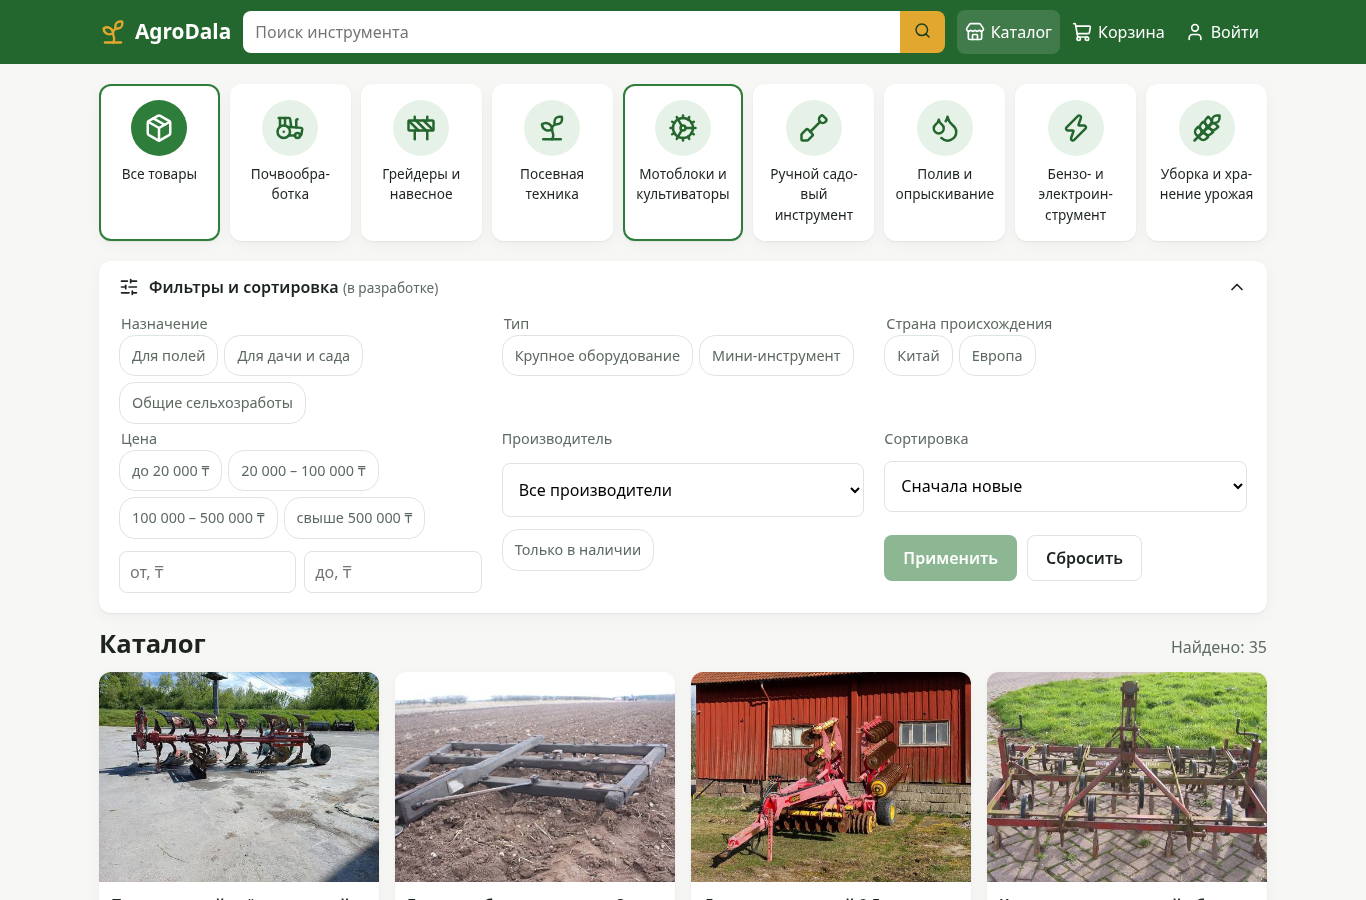
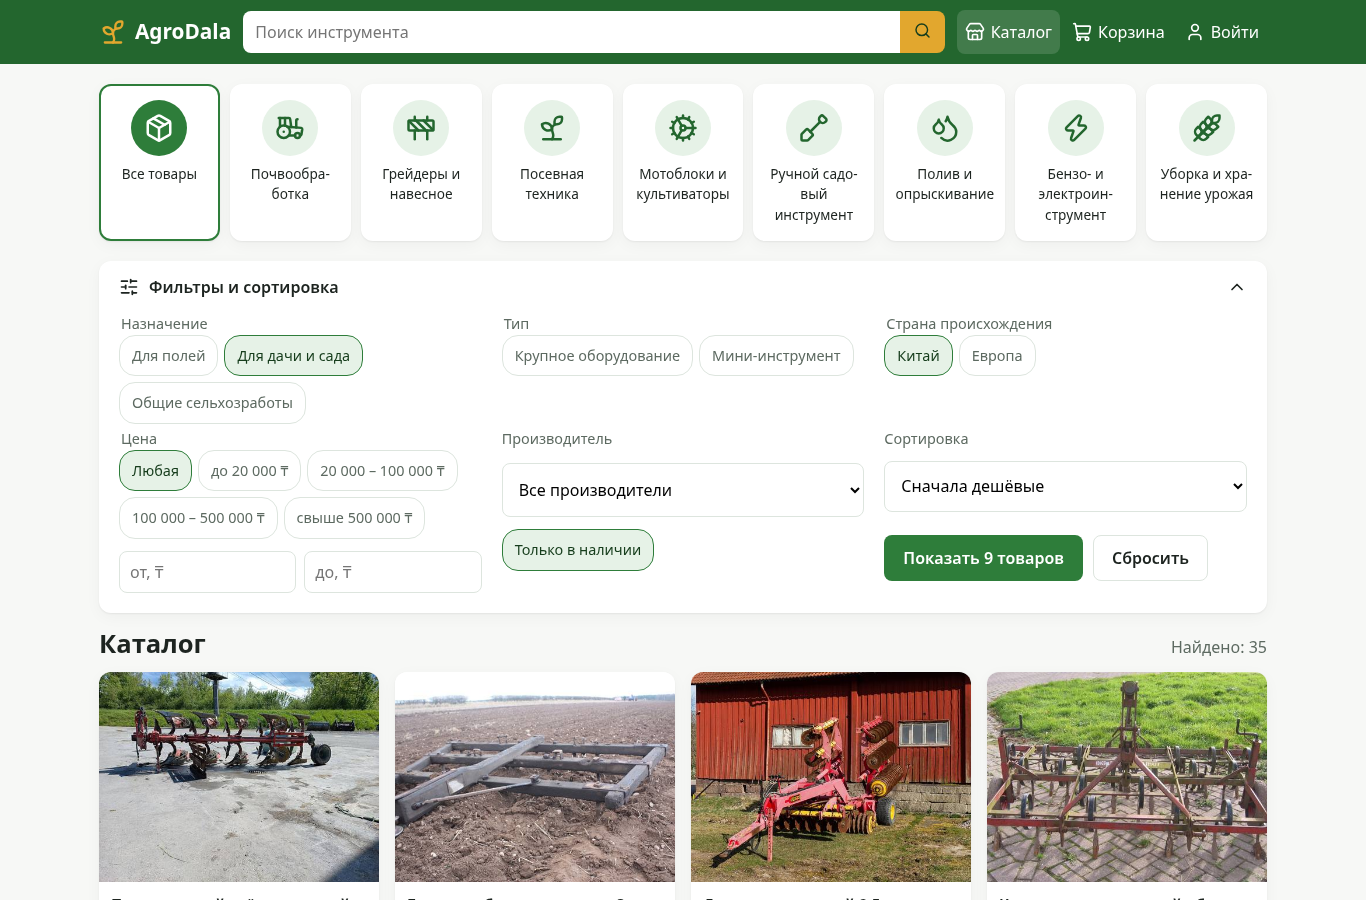
Документация и скриншоты каталога: 4-я неделя
Claude-Session: https://claude.ai/code/session_019f9jj2WYXRGJKEKH8DrWY6

diff --git a/docs/database.md b/docs/database.md
@@ -44,6 +44,9 @@ erDiagram
 | `price` | int | Цена в тенге, целое число |
 | `priceRange` | string | Ценовой диапазон: `upTo20k`, `20kTo100k`, `100kTo500k`, `over500k` |
 | `stock` | int | Остаток на складе, шт.; 0 — на сайте показывается «Под заказ» |
+| `inStock` | bool | Для фильтра «Только в наличии»: `stock > 0` |
+| `sortName` | string | Для сортировки по названию: название строчными буквами, «е» вместо «ё» |
+| `searchTokens` | array\<string\> | Для поиска: начала слов названия и производителя от 2 букв (`ло`, `лоп`, …, `лопата`) |
 | `description` | string | Описание |
 | `specs` | map | Характеристики: `{ "Ширина захвата": "2,5 м", … }` |
 | `images` | array\<string\> | Пути к фотографиям в Cloud Storage: `products/<id>/main.jpg` (960×720) |
@@ -54,9 +57,23 @@ erDiagram
 `manufacturer`, `origin` и `country` повторяют данные поставщика. Это сделано нарочно: Firestore не
 умеет объединять коллекции (JOIN) в одном запросе, а фильтр по стране должен работать одним запросом.
 
-`priceRange` вычисляется из `price` при сохранении товара (функция `priceRangeOf` в
-`public/js/dictionaries.js`). Отдельное поле позволяет фильтровать по диапазону простым
-сравнением на равенство и сочетать этот фильтр с сортировкой по цене или дате.
+`priceRange`, `inStock`, `sortName` и `searchTokens` вычисляются из других полей при сохранении
+товара (функция `derivedFields` в `public/js/catalog.js`). Они нужны только для запросов каталога:
+
+- `priceRange` и `inStock` превращают сравнения (`price < 20000`, `stock > 0`) в равенства. Равенства
+  Firestore сочетает с любой сортировкой и с другими равенствами, используя небольшие индексы
+  (см. «Индексы»), а сравнение по второму полю потребовало бы отдельного индекса на каждое сочетание.
+- `sortName` — потому что Firestore сравнивает строки по кодам символов: «Ёмкость» оказалась бы
+  перед «Бороной» (код «Ё» меньше, чем у «А»), а название со строчной буквы — после всех заглавных.
+- `searchTokens` — потому что в Firestore нет полнотекстового поиска. Есть только `array-contains`:
+  «в массиве есть такой элемент». Начала слов превращают поиск по началу слова в такую проверку.
+
+Как работает поиск (`public/js/search.js`): запрос приводится к строчным буквам и «е» вместо «ё»,
+делится на слова, у слов длиннее 4 букв отбрасывается окончание («лопаты» → «лопат»,
+«бензиновый» → «бензинов»). Самую длинную основу ищет база (`searchTokens array-contains`),
+остальные проверяет браузер: в одном запросе Firestore допускает только одно условие
+`array-contains`. Это не морфологический анализ: «лопат» найдёт «лопата» и «лопаты», но поиск не
+знает синонимов и не исправляет опечатки.
 
 ### `suppliers` — поставщики
 
@@ -115,6 +132,13 @@ erDiagram
 | `statusHistory` | array\<map\> | `status`, `at` (время), `by` (uid сотрудника) |
 | `createdAt` | timestamp | Дата оформления |
 
+### `meta` — сводка для каталога
+
+Документ `meta/catalog` хранит список производителей для выпадающего списка в блоке фильтров:
+`manufacturers` (array\<string\>, по алфавиту) и `updatedAt`. Firestore не умеет выбирать
+различающиеся значения поля (аналог `SELECT DISTINCT`), а читать ради списка все товары дорого.
+Сейчас документ пишет скрипт тестовых данных, с 5-й недели — Cloud Function при изменении товаров.
+
 ### `counters` — служебные счётчики
 
 Документ `counters/orders` хранит последний выданный номер заказа. Доступен только Cloud Functions.
@@ -126,7 +150,7 @@ erDiagram
 
 | Коллекция | Гость | Покупатель | Менеджер | Контент-менеджер | Администратор |
 |---|---|---|---|---|---|
-| `categories`, `products` | чтение | чтение | чтение | чтение и запись | чтение и запись |
+| `categories`, `products`, `meta` | чтение | чтение | чтение | чтение и запись | чтение и запись |
 | `suppliers` | — | — | чтение | чтение и запись | чтение и запись |
 | `users` | — | свой профиль, без смены роли | свой + чтение всех | свой профиль | все, смена ролей |
 | `carts` | — | своя корзина | — | — | — |
@@ -136,14 +160,15 @@ erDiagram
 которые работают через Admin SDK, а он правила не проверяет. Так покупатель не может подменить
 цену или сумму, а смена статуса проходит проверки на сервере.
 
-Таблица проверяется автоматически: матрица в `tests/firestore.rules.test.js` пробует 29 действий от
+Таблица проверяется автоматически: матрица в `tests/firestore.rules.test.js` пробует 32 действия от
 имени каждой из пяти ролей. Правила для фото (`storage.rules`) проверяет `tests/storage.rules.test.js`.
 
 Кроме прав правила проверяют сами данные:
 
 | Что | Проверка |
 |---|---|
-| Товар | только известные поля; обязательные на месте; типы и значения верны; цена — целое число до 1 млрд; `priceRange` соответствует цене; категория и поставщик существуют; `createdAt` ставит сервер и он не меняется |
+| Товар | только известные поля; обязательные на месте; типы и значения верны; цена — целое число до 1 млрд; `priceRange` соответствует цене, `inStock` — остатку; `sortName` — строка той же длины, что и название; `searchTokens` — список не длиннее 400; категория и поставщик существуют; `createdAt` ставит сервер и он не меняется |
+| Сводка каталога | только документ `meta/catalog`, только `manufacturers` (список до 200) и `updatedAt` от сервера; удалить нельзя |
 | Категория | только известные поля; назначение из списка; `order` — целое число |
 | Поставщик | только известные поля; регион `china` или `europe` |
 | Профиль | только известные поля; роль из списка; телефон из цифр и знаков `+ - ( )` до 20 символов; до 5 адресов, в адресе только `label`, `city`, `street`; при регистрации роль `customer`, своя почта, дата от сервера; почту и дату регистрации не меняет никто |
@@ -151,6 +176,26 @@ erDiagram
 
 ## Индексы
 
-Firestore требует составной индекс для запросов, где фильтр по одному полю сочетается с сортировкой
-по другому. Индексы описаны в [`firestore.indexes.json`](../firestore.indexes.json); сейчас там индекс
-для «товары категории, сначала новые». Индексы для фильтров и сортировок добавятся на 4-й неделе.
+Firestore выполняет запрос только по индексу — отсортированному списку «значения полей → документ».
+Индекс по одному полю создаётся сам, а для фильтра по одному полю с сортировкой по другому нужен
+составной индекс. Эмулятор индексы не требует, а настоящая база без нужного индекса отвечает
+ошибкой `FAILED_PRECONDITION` (сайт тогда показывает «Такое сочетание фильтров пока не
+поддерживается»).
+
+Индексы описаны в [`firestore.indexes.json`](../firestore.indexes.json). Для каталога файл строит
+скрипт `node scripts/indexes.js` по списку фильтров и сортировок из `public/js/catalog.js`:
+
+- на каждое поле фильтра (8 полей, включая `searchTokens`) и каждую сортировку (4) — индекс
+  «поле + сортировка», всего 32;
+- для своего диапазона цены при сортировке не по цене — «сортировка + цена» и
+  «поле + сортировка + цена», ещё 18.
+
+Индекс на каждое сочетание фильтров завести нельзя: сочетаний тысячи, а лимит — 200 составных
+индексов на базу. Запрос с несколькими равенствами Firestore выполняет, объединяя индексы
+«поле + сортировка» (index merging, алгоритм zig-zag merge join): идёт по нескольким
+отсортированным индексам одновременно и берёт документы, которые есть во всех.
+
+Достаточно ли этих 50 индексов для всех сочетаний на настоящей базе, можно проверить только после
+создания проекта Firebase (6-я неделя): эмулятор индексы не проверяет. Тест
+`tests/indexes.test.js` проверяет файл: он совпадает с выводом скрипта, и для каждого вида запроса
+каталога в нём есть индексы по правилу выше.

diff --git a/docs/mockups.md b/docs/mockups.md
@@ -4,8 +4,8 @@
 `npm run screenshots` в Chromium: компьютер — окно 1366×900, планшет — 768×1024, телефон — 390×844 и
 360×640 (эмуляция Pixel 7).
 
-Вход, регистрация и личный кабинет работают. Корзина и админ-панель показывают данные из базы, а их
-кнопки пока неактивны: логика — 5-я неделя по ТЗ. Фото товаров взяты с Wikimedia Commons, авторы
+Каталог (фильтры, сортировка, поиск), вход, регистрация и личный кабинет работают. Корзина и
+админ-панель показывают данные из базы, а их кнопки пока неактивны: логика — 5-я неделя по ТЗ. Фото товаров взяты с Wikimedia Commons, авторы
 перечислены в [image-credits.md](image-credits.md).
 
 ## Главная страница
@@ -16,9 +16,23 @@
 ![Главная страница, компьютер](screenshots/01-glavnaya-pk.png)
 
 Блок фильтров раскрыт: назначение, тип, страна, ценовой диапазон или своя цена «от — до»,
-производитель, наличие, сортировка.
+производитель, наличие, сортировка. Выбраны «Для дачи и сада», «Китай», «Только в наличии» и
+«Сначала дешёвые»: число подходящих товаров видно на кнопке ещё до применения.
 
 ![Фильтры и сортировка, компьютер](screenshots/02-filtry-pk.png)
+
+После «Показать» — подборка из базы. Фильтры записаны в адрес страницы
+(`index.html?purpose=garden&origin=china&stock=1&sort=priceAsc`), рядом с заголовком блока —
+число выбранных фильтров.
+
+![Подборка по фильтрам, компьютер](screenshots/24-podborka-pk.png)
+
+Поиск из шапки: «лопаты» находит обе лопаты (окончание отбрасывается). Если ничего не нашлось —
+сообщение и кнопка сброса.
+
+![Поиск, компьютер](screenshots/25-poisk-pk.png)
+
+![Ничего не найдено, компьютер](screenshots/26-nichego-pk.png)
 
 Категория «Полив и опрыскивание» — открывается одним нажатием на иконку.
 
@@ -35,9 +49,18 @@
 |---|---|
 | ![Главная, телефон](screenshots/04-glavnaya-telefon.png) | ![Фильтры, телефон](screenshots/05-filtry-telefon.png) |
 
+| Подборка | Поиск |
+|---|---|
+| ![Подборка, телефон](screenshots/28-podborka-telefon.png) | ![Поиск, телефон](screenshots/29-poisk-telefon.png) |
+
 ## Карточка товара
 
 ![Карточка товара, компьютер](screenshots/06-tovar-pk.png)
+
+Товар, открытый из подборки: ссылка «← К результатам» возвращает к тем же фильтрам, внизу — другие
+товары этой категории.
+
+![Карточка товара из подборки, компьютер](screenshots/27-tovar-iz-podborki-pk.png)
 
 ![Карточка товара, телефон](screenshots/07-tovar-telefon.png)
 
